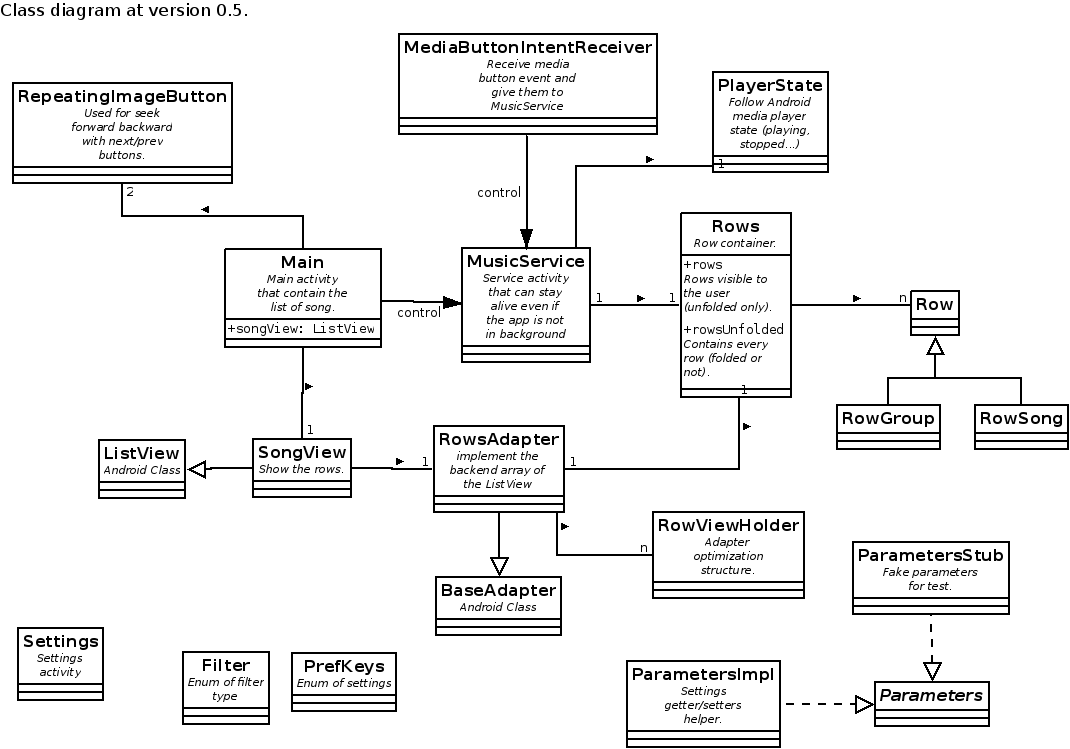
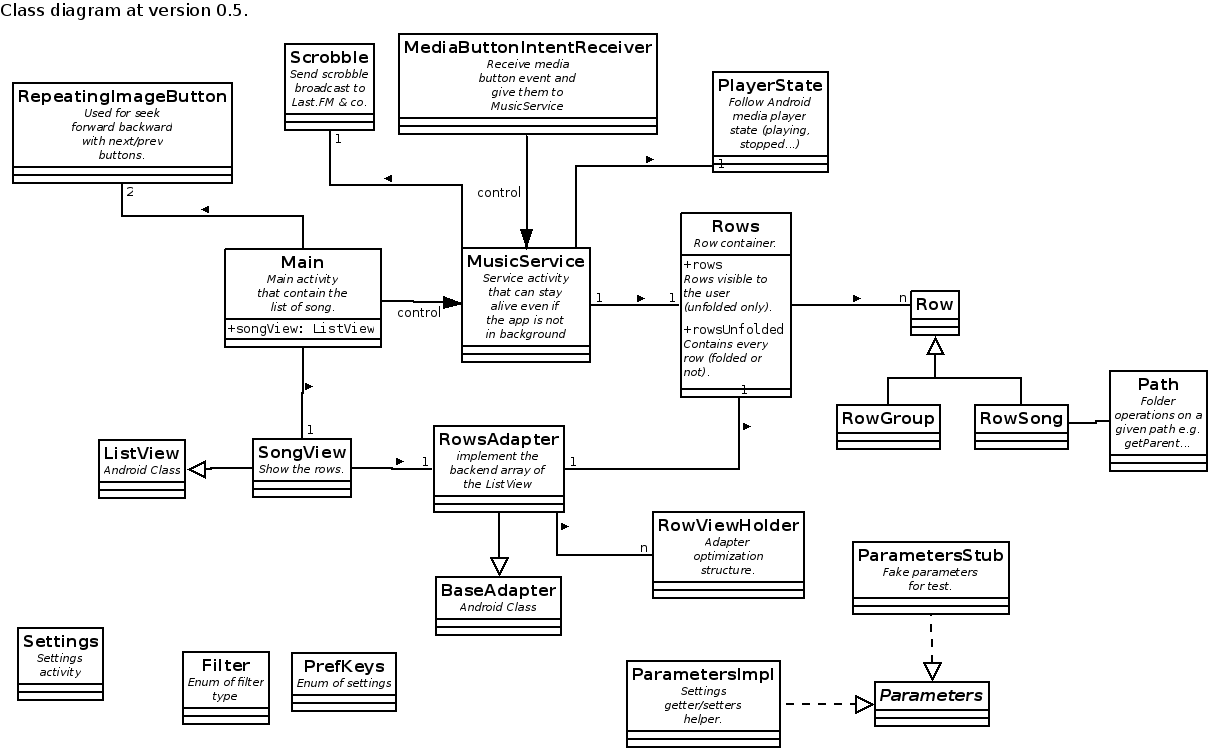
Add support to Scrobble droid. Move scrobble to separate class. Update UML diagram.

diff --git a/app/src/main/java/souch/smp/MusicService.java b/app/src/main/java/souch/smp/MusicService.java
@@ -105,17 +105,7 @@ public class MusicService extends Service implements
     private double accelCurrent;
     private double accel;
 
-    // from API spcecification
-    public static final int SCROBBLE_START = 0;
-    public static final int SCROBBLE_RESUME = 1;
-    public static final int SCROBBLE_PAUSE = 2;
-    public static final int SCROBBLE_COMPLETE = 3;
-
-    private boolean scrobbleStarted;
-    private String scrobbleArtist;
-    private String scrobbleAlbum;
-    private String scrobbleTrack;
-    private int scrobbleDuration;
+    private Scrobble scrobble;
 
     public Rows getRows() { return rows; }
 
@@ -160,7 +150,7 @@ public class MusicService extends Service implements
         foreground = false;
         mainIsVisible = false;
 
-        scrobbleStarted = false;
+        scrobble = new Scrobble(rows, params, getApplicationContext());
     }
 
 
@@ -228,7 +218,7 @@ public class MusicService extends Service implements
         changed = true;
         wasPlaying = false;
 
-        scrobbleSend(SCROBBLE_COMPLETE);
+        scrobble.send(Scrobble.SCROBBLE_COMPLETE);
 
         if (player != null) {
             if (player.isPlaying()) {
@@ -418,8 +408,8 @@ public class MusicService extends Service implements
         mp.start();
         state.setState(PlayerState.Started);
 
-        scrobbleSend(SCROBBLE_COMPLETE);
-        scrobbleSend(SCROBBLE_START);
+        scrobble.send(Scrobble.SCROBBLE_COMPLETE);
+        scrobble.send(Scrobble.SCROBBLE_START);
     }
 
 
@@ -463,7 +453,7 @@ public class MusicService extends Service implements
         getPlayer().start();
         state.setState(PlayerState.Started);
         startSensor();
-        scrobbleSend(SCROBBLE_RESUME);
+        scrobble.send(Scrobble.SCROBBLE_RESUME);
     }
 
     public void pause() {
@@ -473,7 +463,7 @@ public class MusicService extends Service implements
         player.pause();
         state.setState(PlayerState.Paused);
         stopSensor();
-        scrobbleSend(SCROBBLE_PAUSE);
+        scrobble.send(Scrobble.SCROBBLE_PAUSE);
     }
 
     public void playPrev() {
@@ -564,51 +554,6 @@ public class MusicService extends Service implements
             stopForeground(true);
         foreground = false;
     }
-
-
-    // can be called with SCROBBLE_COMPLETE state twice or more
-    private void scrobbleSend(int scrobbleState) {
-        if (!params.getScrobble())
-            return;
-
-        RowSong rowSong = rows.getCurrSong();
-        if (rowSong == null) {
-            Log.w("MusicService", "scrobbleSend exit as rowSong is null!");
-            return;
-        }
-
-        if (scrobbleState == SCROBBLE_START) {
-            scrobbleStarted = true;
-            // save scrobble info for next state
-            scrobbleArtist = rowSong.getArtist();
-            scrobbleAlbum = rowSong.getAlbum();
-            scrobbleTrack = rowSong.getTitle();
-            scrobbleDuration = rowSong.getDuration();
-        }
-        else if (scrobbleState == SCROBBLE_COMPLETE) {
-            // send complete only if SCROBBLE_START was send before
-            if (!scrobbleStarted)
-                return;
-
-            scrobbleStarted = false;
-        }
-
-        Intent bCast = new Intent("com.adam.aslfms.notify.playstatechanged");
-        bCast.putExtra("state", scrobbleState);
-        bCast.putExtra("app-name", getResources().getString(R.string.app_name));
-        bCast.putExtra("app-package", getApplicationContext().getPackageName());
-        bCast.putExtra("artist", scrobbleArtist);
-        bCast.putExtra("album", scrobbleAlbum);
-        bCast.putExtra("track", scrobbleTrack);
-        bCast.putExtra("duration", scrobbleDuration);
-        // useful?
-        //bCast.putExtra("playing", scrobbleState == SCROBBLE_START || scrobbleState == SCROBBLE_RESUME);
-        bCast.putExtra("source", "P");
-        sendBroadcast(bCast);
-
-        Log.d("MusicService", "scrobbleSend " + scrobbleState + " : " + scrobbleArtist + " - " + scrobbleTrack);
-    }
-
 
     /*** PREFERENCES ***/
 

diff --git a/app/src/main/java/souch/smp/Scrobble.java b/app/src/main/java/souch/smp/Scrobble.java
@@ -1,0 +1,105 @@
+/*
+ * SicMu Player - Lightweight music player for Android
+ * Copyright (C) 2015  Mathieu Souchaud
+ *
+ * This program is free software: you can redistribute it and/or modify
+ * it under the terms of the GNU General Public License as published by
+ * the Free Software Foundation, either version 3 of the License, or
+ * (at your option) any later version.
+ *
+ * This program is distributed in the hope that it will be useful,
+ * but WITHOUT ANY WARRANTY; without even the implied warranty of
+ * MERCHANTABILITY or FITNESS FOR A PARTICULAR PURPOSE.  See the
+ * GNU General Public License for more details.
+ *
+ * You should have received a copy of the GNU General Public License
+ * along with this program.  If not, see <http://www.gnu.org/licenses/>.
+ */
+
+package souch.smp;
+
+import android.content.Context;
+import android.content.Intent;
+import android.util.Log;
+
+public class Scrobble {
+    private Rows rows;
+    private Parameters params;
+    private Context context;
+
+    // from API spcecification
+    public static final int SCROBBLE_START = 0;
+    public static final int SCROBBLE_RESUME = 1;
+    public static final int SCROBBLE_PAUSE = 2;
+    public static final int SCROBBLE_COMPLETE = 3;
+
+    private boolean started;
+    private String artist;
+    private String album;
+    private String track;
+    private int duration;
+
+
+    public Scrobble(Rows rows, Parameters params, Context ctx) {
+        this.rows = rows;
+        this.params = params;
+        this.context = ctx;
+
+        started = false;
+    }
+
+    // can be called with SCROBBLE_COMPLETE state twice or more
+    public void send(int scrobbleState) {
+        if (!params.getScrobble())
+            return;
+
+        RowSong rowSong = rows.getCurrSong();
+        if (rowSong == null) {
+            Log.w("MusicService", "scrobbleSend exit as rowSong is null!");
+            return;
+        }
+
+        if (scrobbleState == SCROBBLE_START) {
+            started = true;
+            // save scrobble info for next state
+            artist = rowSong.getArtist();
+            album = rowSong.getAlbum();
+            track = rowSong.getTitle();
+            duration = rowSong.getDuration();
+        } else if (scrobbleState == SCROBBLE_COMPLETE) {
+            // send complete only if SCROBBLE_START was send before
+            if (!started)
+                return;
+
+            started = false;
+        }
+
+        Intent bCast;
+        // from https://github.com/tgwizard/sls/blob/master/Developer%27s%20API.md
+        // do not enable Simple Last.FM Droid broadcast as Simple Last.FM Droid handles Scrobble Droid broadcast
+        /*
+        bCast = new Intent("com.adam.aslfms.notify.playstatechanged");
+        bCast.putExtra("state", scrobbleState);
+        bCast.putExtra("app-name", context.getResources().getString(R.string.app_name));
+        bCast.putExtra("app-package", context.getPackageName());
+        bCast.putExtra("artist", artist);
+        bCast.putExtra("album", album);
+        bCast.putExtra("track", track);
+        bCast.putExtra("duration", duration);
+        bCast.putExtra("source", "P");
+        context.sendBroadcast(bCast);
+        */
+
+        // from https://code.google.com/p/scrobbledroid/wiki/DeveloperAPI
+        bCast = new Intent("net.jjc1138.android.scrobbler.action.MUSIC_STATUS");
+        bCast.putExtra("playing", scrobbleState == SCROBBLE_START || scrobbleState == SCROBBLE_RESUME);
+        bCast.putExtra("artist", artist);
+        bCast.putExtra("album", album);
+        bCast.putExtra("track", track);
+        bCast.putExtra("secs", duration);
+        bCast.putExtra("source", "P");
+        context.sendBroadcast(bCast);
+
+        Log.d("MusicService", "scrobbleSend " + scrobbleState + " : " + artist + " - " + track);
+    }
+}

diff --git a/README.md b/README.md
@@ -6,7 +6,6 @@ Songs are sorted and grouped by folders, artists, albums and album's track.
 
 Works on old slow small devices (from Android froyo 2.2).
 
-No eye candy graphics.
 
 3.5" screen:
 
@@ -21,8 +20,8 @@ No eye candy graphics.
 ### detailed features
 
 - sorted by artists, albums and track number
+- or sorted by folder tree, useful for big music list
 - or sorted by folders, artists, albums and track number, flattening folder hierarchy
-- or sorted by folders following the tree hierarchy, useful for big music list
 - groups can be folded / unfolded
 - shake the phone to go to next song
 - show current playing song in the list
@@ -35,7 +34,7 @@ No eye candy graphics.
 - bluetooth support (play through bluetooth device)
 - media buttons support (next, prev, play/pause) from external device (bluetooth headphones...)
 - light and fast: starts in 0.5s and uses 10Mo of RAM with 5Go of music (1000 files, 100 folders) on a 700MHz ARM processor.
-- support Simple Last.fm Scrobbler (disabled by default in settings)
+- support Simple Last.fm Scrobbler or Scrobble Droid (disabled by default in settings)
 
 
 ### Installation
